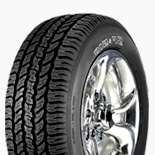
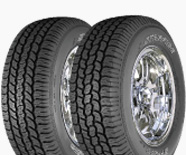
img

diff --git a/public/suv.html b/public/suv.html
@@ -109,8 +109,8 @@
 
 <div class="pcr_list">
 <div class="rs_r1">
-<div class="pr_img"><img src="images/suv_pic2.jpg" width="155" height="155" /></div>
-<div class="pr_text">
+<div class="pr_img"><img src="images/suv_pic2.jpg" width="186" height="155" /></div>
+<div class="pr_text2">
 <div class="pt_title"><span class="ptt_1">SF-510</span><span>公路越野轮胎</span></div>
 <div class="pt_con">我们不能改变前方路况，但可以用完美品质应对严苛考验。<br />
 来自美国的斯达飞SUV轮胎SF 501，集全天候、全路况于一身，精彩诠释了都市越野情怀。</div>

diff --git a/public/css/style.css b/public/css/style.css
@@ -291,6 +291,7 @@ ul.cl_list li{ display:block; border-bottom:1px dashed #ddd; line-height:24px; p
 .rs_r1{ overflow:hidden; padding-bottom:35px; border-bottom:1px dashed #ddd; margin-bottom:25px;}
 .pr_img{ float:left; margin:0px 35px;}
 .pr_text{ float:left; width:410px;}
+.pr_text2{ float:left; width:380px;}
 .pt_title{ overflow:hidden; margin-bottom:14px; margin-top:15px;}
 .pt_title span{ display:block; float:left; line-height:18px;}
 .pt_title span.ptt_1{ font-size:15px; font-weight:bold; margin-right:20px;}

diff --git a/public/index.html b/public/index.html
@@ -312,6 +312,11 @@
 
 
 <div class="home_con2">
+
+
+
+
+
 <div class="hcp_con3">
 <div class="hcc_title">
 <span class="ht_left2">RS-W 3.0&nbsp;&nbsp; 超高性能雪地型轮胎</span>
@@ -323,7 +328,6 @@
 以用完美品质应对严苛考验。
 美国斯达飞轮胎RS-W 3.0，以踏雪破霜之势疾驶在冰雪之间⋯⋯</div>
 </div>
-
 </div>
 
 
